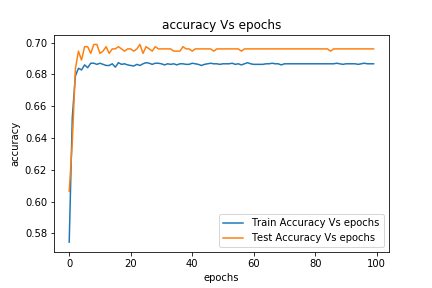
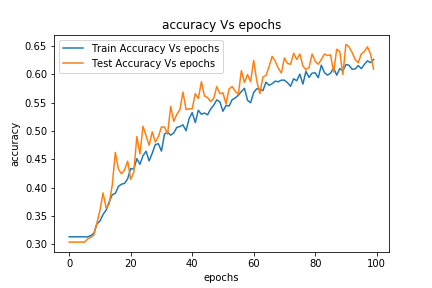
adjustment to threshold

diff --git a/3_layerNN_multilabel_finalVer.py b/3_layerNN_multilabel_finalVer.py
@@ -32,38 +32,39 @@ y_test = test.iloc[:,-6:]
 output_labels = y_train.columns
 
 #converting to one.hot vector form
-y_train = y_train.values
-y_test = y_test.values
+y_train = np.float32(y_train)
+y_test = np.float32(y_test)
 
 #feature scaling
 from sklearn.preprocessing import MinMaxScaler
 x_scaler = MinMaxScaler(feature_range=(0,1))
-x_scaled_train =  x_scaler.fit_transform(x_train)
-x_scaled_test = x_scaler.fit_transform(x_test)
+x_scaled_train =  np.float32(x_scaler.fit_transform(x_train))
+x_scaled_test = np.float32(x_scaler.fit_transform(x_test))
 
 #Model parameters
 learning_rate = 0.001
 training_epochs = 100
 display_step = 5
-threshold = 0.4
+threshold = pow(10,-8)
 beta = pow(10.0,-6)
 num_inputs = 72
 num_outputs = 6
-batch_size = 32
+batch_size = 79
 layer1_nodes = 50
 layer2_nodes = 100
 layer3_nodes = 50
 keep_prob = 0.7
 
+
 N = len(x_scaled_train)
 idx = np.arange(N)
 
 #input layer
-with tf.variable_scope('input',reuse = tf.AUTO_REUSE):
+with tf.variable_scope('input',reuse=tf.AUTO_REUSE):
     X = tf.placeholder(tf.float32, shape=(None,  num_inputs))
 
 #layer 1
-with tf.variable_scope('layer_1',reuse = tf.AUTO_REUSE):
+with tf.variable_scope('layer_1',reuse=tf.AUTO_REUSE):
     weights = tf.get_variable(name = "weights1", shape = [num_inputs,layer1_nodes], initializer = tf.contrib.layers.xavier_initializer())
     biases = tf.get_variable(name="biases1",shape = [layer1_nodes],initializer = tf.zeros_initializer())
     layer1_output = tf.nn.relu(tf.matmul(X,weights) +biases)
@@ -71,38 +72,38 @@ with tf.variable_scope('layer_1',reuse = tf.AUTO_REUSE):
 
 
 #layer 2
-with tf.variable_scope('layer_2',reuse = tf.AUTO_REUSE):
+with tf.variable_scope('layer_2',reuse=tf.AUTO_REUSE):
     weights = tf.get_variable(name = "weights2", shape = [layer1_nodes,layer2_nodes], initializer = tf.contrib.layers.xavier_initializer())
     biases = tf.get_variable(name="biases2",shape = [layer2_nodes],initializer = tf.zeros_initializer())
     layer2_output = tf.nn.relu(tf.matmul(layer1_output_drop,weights) +biases)
     layer2_output_drop = tf.nn.dropout(layer2_output, keep_prob)
 
 #layer 3
-with tf.variable_scope('layer_3',reuse = tf.AUTO_REUSE):
+with tf.variable_scope('layer_3',reuse=tf.AUTO_REUSE):
     weights = tf.get_variable(name = "weights3", shape = [layer2_nodes,layer3_nodes], initializer = tf.contrib.layers.xavier_initializer())
     biases = tf.get_variable(name="biases3",shape = [layer3_nodes],initializer = tf.zeros_initializer())
     layer3_output = tf.nn.relu(tf.matmul(layer2_output_drop,weights) +biases)
     layer3_output_drop = tf.nn.dropout(layer3_output, 0.5)
 
 #output
-with tf.variable_scope('output',reuse = tf.AUTO_REUSE):
+with tf.variable_scope('output',reuse=tf.AUTO_REUSE):
     weights = tf.get_variable(name = "weights4", shape = [layer3_nodes,num_outputs], initializer = tf.contrib.layers.xavier_initializer())
     biases = tf.get_variable(name="biases4",shape = [num_outputs],initializer = tf.zeros_initializer())
     logit = tf.sigmoid(tf.matmul(layer3_output_drop,weights) +biases)
 
 #cost function
-with tf.variable_scope('cost',reuse = tf.AUTO_REUSE):
+with tf.variable_scope('cost',reuse=tf.AUTO_REUSE):
     Y = tf.placeholder(tf.float32, shape=(None,6))
     cross_entropy = tf.nn.sigmoid_cross_entropy_with_logits(labels=Y, logits=logit) + beta
     cost = tf.reduce_mean(tf.reduce_sum(cross_entropy, axis=1))
 
 #accuracy function
-with tf.variable_scope('accuracy',reuse = tf.AUTO_REUSE):
+with tf.variable_scope('accuracy',reuse=tf.AUTO_REUSE):
     prediction = tf.cast(logit > threshold, tf.float32)
     correct_prediction = tf.equal(prediction, Y)
     accuracy = tf.reduce_mean(tf.cast(correct_prediction, tf.float32))
 
-with tf.variable_scope('train',reuse = tf.AUTO_REUSE):
+with tf.variable_scope('train',reuse=tf.AUTO_REUSE):
     optimizer = tf.train.AdamOptimizer(learning_rate).minimize(cost)
 
 with tf.Session() as session:
@@ -134,6 +135,12 @@ with tf.Session() as session:
         
         if epoch % 5==0:
             print("Epoch: %d, Train Cost: %g, Test Cost: %g, Train Acc: %g, Test Acc: %g"%(epoch, train_cost_list[epoch],test_cost_list[epoch],train_acc_list[epoch],test_acc_list[epoch]))
+        #random testing
+        random_sample = np.expand_dims(x_scaled_train[422],axis=0)
+        random_sample_y = np.expand_dims(y_train[422],axis=0)
+
+        predict = prediction.eval(feed_dict={X:random_sample,Y:random_sample_y})
+        predict_percentage = accuracy.eval(feed_dict={X:random_sample,Y:random_sample_y})
     #plotting results
     pylab.figure(1)
     pylab.plot(np.arange(training_epochs),train_cost_list,label = 'Train Cost Vs epochs')
